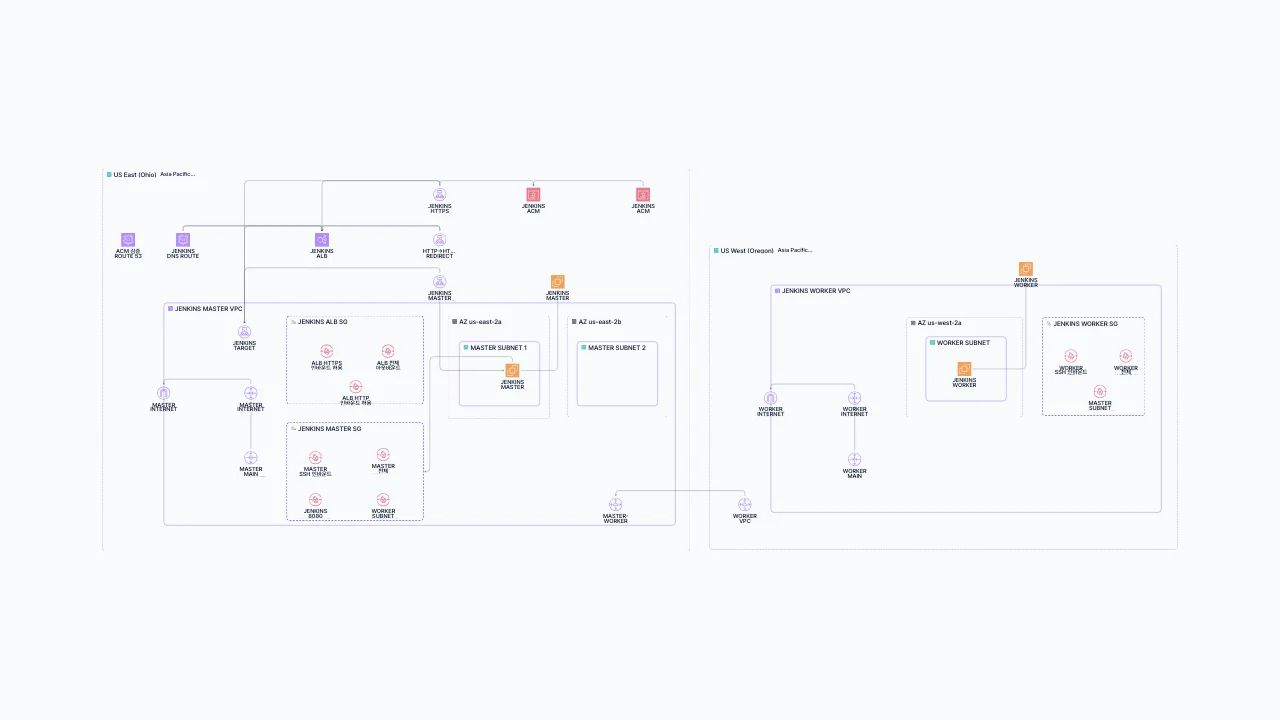
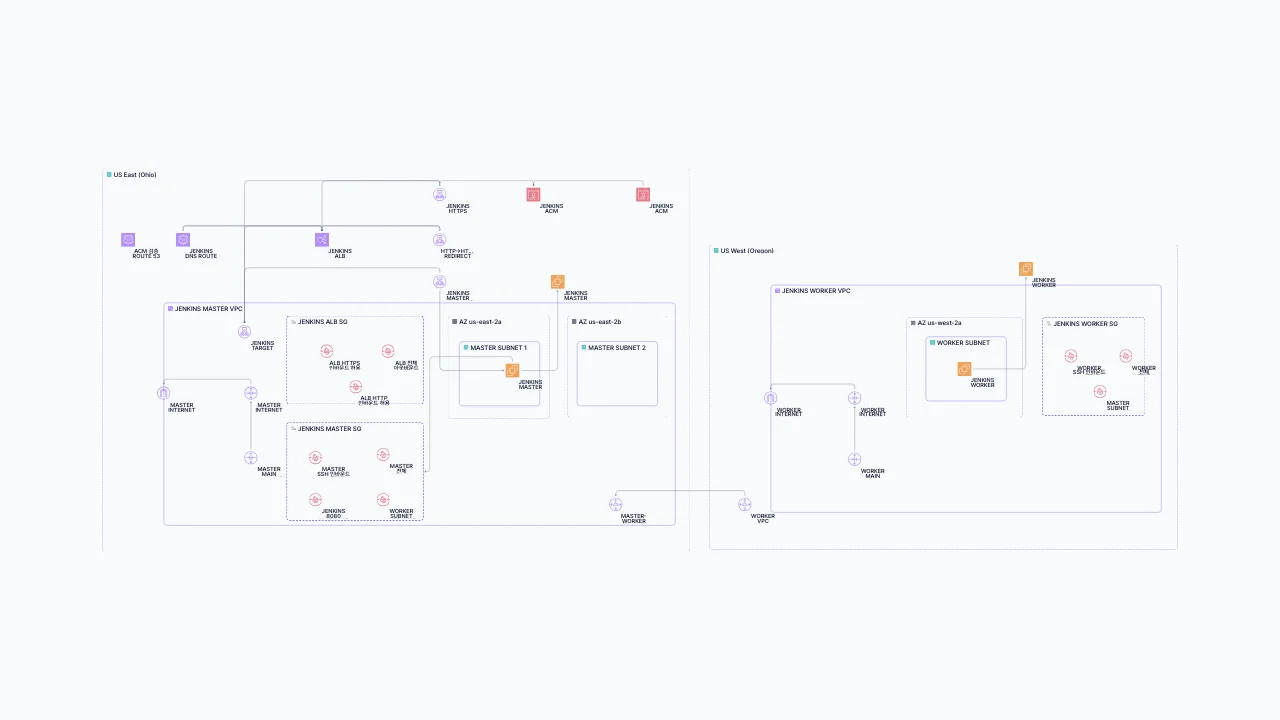
Fix: ECS Template Auto Scaling 표시 정리

diff --git a/apps/web/features/architecture-board-compiler/architecture-board-knowledge.generated.ts b/apps/web/features/architecture-board-compiler/architecture-board-knowledge.generated.ts
@@ -7,7 +7,7 @@ import {
 
 export const generatedArchitectureBoardKnowledgeArtifact = {
   version: ARCHITECTURE_BOARD_KNOWLEDGE_VERSION,
-  hash: "fnv1a-7e91a33f",
+  hash: "fnv1a-05f1e382",
   cases: [
     {
       "id": "brainboard:brainboard-aws-asg-lb-vpc-subnets",
@@ -904,13 +904,13 @@ export const generatedArchitectureBoardKnowledgeArtifact = {
       "parentedNodeCount": 24,
       "maxContainmentDepth": 3,
       "meanAreaChildDensity": 2.667,
-      "meanAreaPadding": 78,
+      "meanAreaPadding": 81.333,
       "meanSiblingGap": 84.8,
       "meanVerticalGap": 25.6,
-      "meanNodeWidth": 308.923,
+      "meanNodeWidth": 315.077,
       "meanNodeHeight": 177.846,
-      "meanAspectRatio": 1.472,
-      "meanCaptionWidth": 111.731,
+      "meanAspectRatio": 1.489,
+      "meanCaptionWidth": 110.385,
       "meanZIndex": 0.846,
       "meanEdgeLength": 392.865,
       "meanEdgeWaypointCount": 0,
@@ -1259,7 +1259,7 @@ export const generatedArchitectureBoardKnowledgeArtifact = {
             "y": 0
           },
           "size": {
-            "width": 720,
+            "width": 560,
             "height": 840
           },
           "type": "aws-region",

diff --git a/packages/types/src/template-definitions.ts b/packages/types/src/template-definitions.ts
@@ -566,7 +566,9 @@ const TEMPLATE_PRESENTATION_LAYOUTS: Readonly<
         [
           layoutInSupportGrid(1840, 480, 0, 0, "definition-ops-group"),
           layoutInSupportGrid(1840, 480, 1, 0, "definition-ops-group"),
-          layoutInSupportGrid(1840, 480, 0, 1, "definition-ops-group")
+          layoutInSupportGrid(1840, 480, 0, 1, "definition-ops-group"),
+          layoutInSupportGrid(1840, 480, 1, 1, "definition-ops-group"),
+          layoutInSupportGrid(1840, 480, 2, 0, "definition-ops-group")
         ],
         "region"
       ),
@@ -1463,14 +1465,14 @@ export const templateDefinitions = [
         },
         dependsOn: ["@address:listener"]
       }),
-      resource("scaling-target", "Fargate Task Capacity 1–3", "aws", "aws_appautoscaling_target", 1100, 660, {
+      resource("scaling-target", "ECS Scaling Target", "aws", "aws_appautoscaling_target", 1100, 660, {
         minCapacity: 1,
         maxCapacity: 3,
         resourceId: "service/${@ref:cluster.name}/${@ref:service.name}",
         scalableDimension: "ecs:service:DesiredCount",
         serviceNamespace: "ecs"
       }),
-      resource("scaling-policy", "10 requests / target", "aws", "aws_appautoscaling_policy", 1300, 660, {
+      resource("scaling-policy", "Request Scaling Policy", "aws", "aws_appautoscaling_policy", 1300, 660, {
         name: "${@ref:service.name}-requests",
         policyType: "TargetTrackingScaling",
         resourceId: "@ref:scaling-target.resource_id",

diff --git a/apps/web/features/resource-settings/template-thumbnail-manifest.ts b/apps/web/features/resource-settings/template-thumbnail-manifest.ts
@@ -11,7 +11,7 @@ export type TemplateThumbnailAsset = {
 const TEMPLATE_THUMBNAIL_VERSION = `v${BOARD_THUMBNAIL_CAPTURE_CONTRACT.version}`;
 
 const TEMPLATE_DIAGRAM_HASHES: Record<TemplateId, string> = {
[5 lines of base64/hex data omitted]

diff --git a/packages/types/src/template-layout-contract.test.ts b/packages/types/src/template-layout-contract.test.ts
@@ -237,7 +237,7 @@ const EXPECTED_SEMANTIC_HASHES = {
[6 lines of base64/hex data omitted]
 } as const satisfies Record<RepositoryTemplateId, string>;
 

diff --git a/packages/types/src/template-presentation-contract.test.ts b/packages/types/src/template-presentation-contract.test.ts
@@ -52,7 +52,7 @@ const EXPECTED_PRESENTATION_NODES = {
   "ecs-fargate-container-app": {
     user: node("design-user-client", 80, 360),
     region: node("aws-region", 240, 40, undefined, { width: 2200, height: 840 }),
-    "definition-ops-group": node("design-group", 1840, 480, "region", { width: 400, height: 360 }),
+    "definition-ops-group": node("design-group", 1840, 480, "region", { width: 560, height: 360 }),
     "global-iam-group": node("design-group", 1840, 120, "region", { width: 400, height: 360 })
   },
   "eks-container-app": {